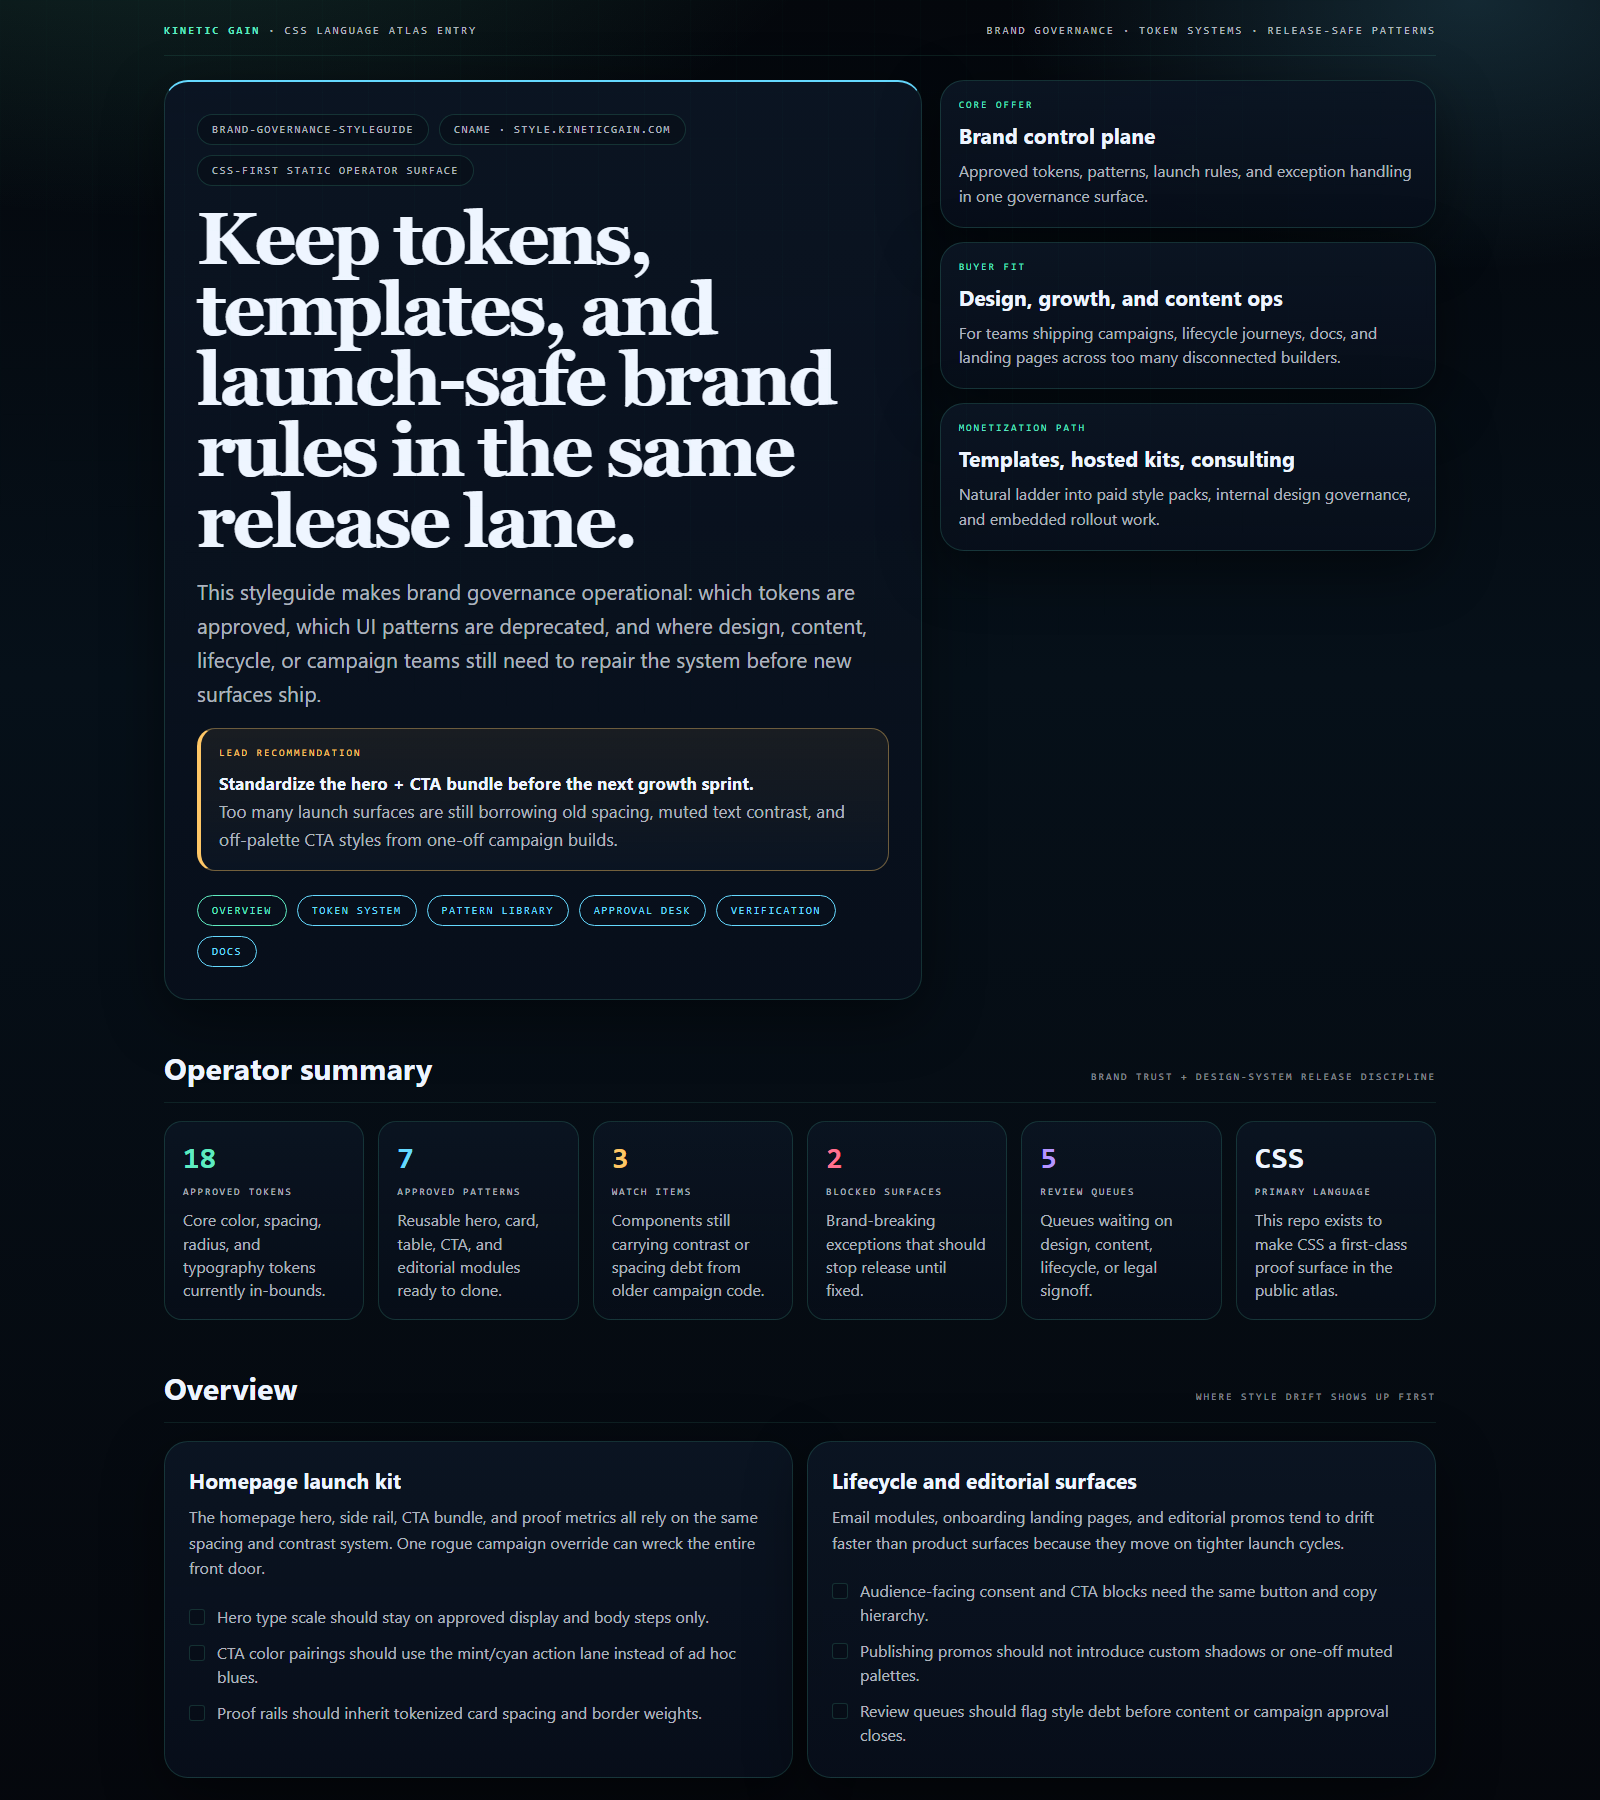
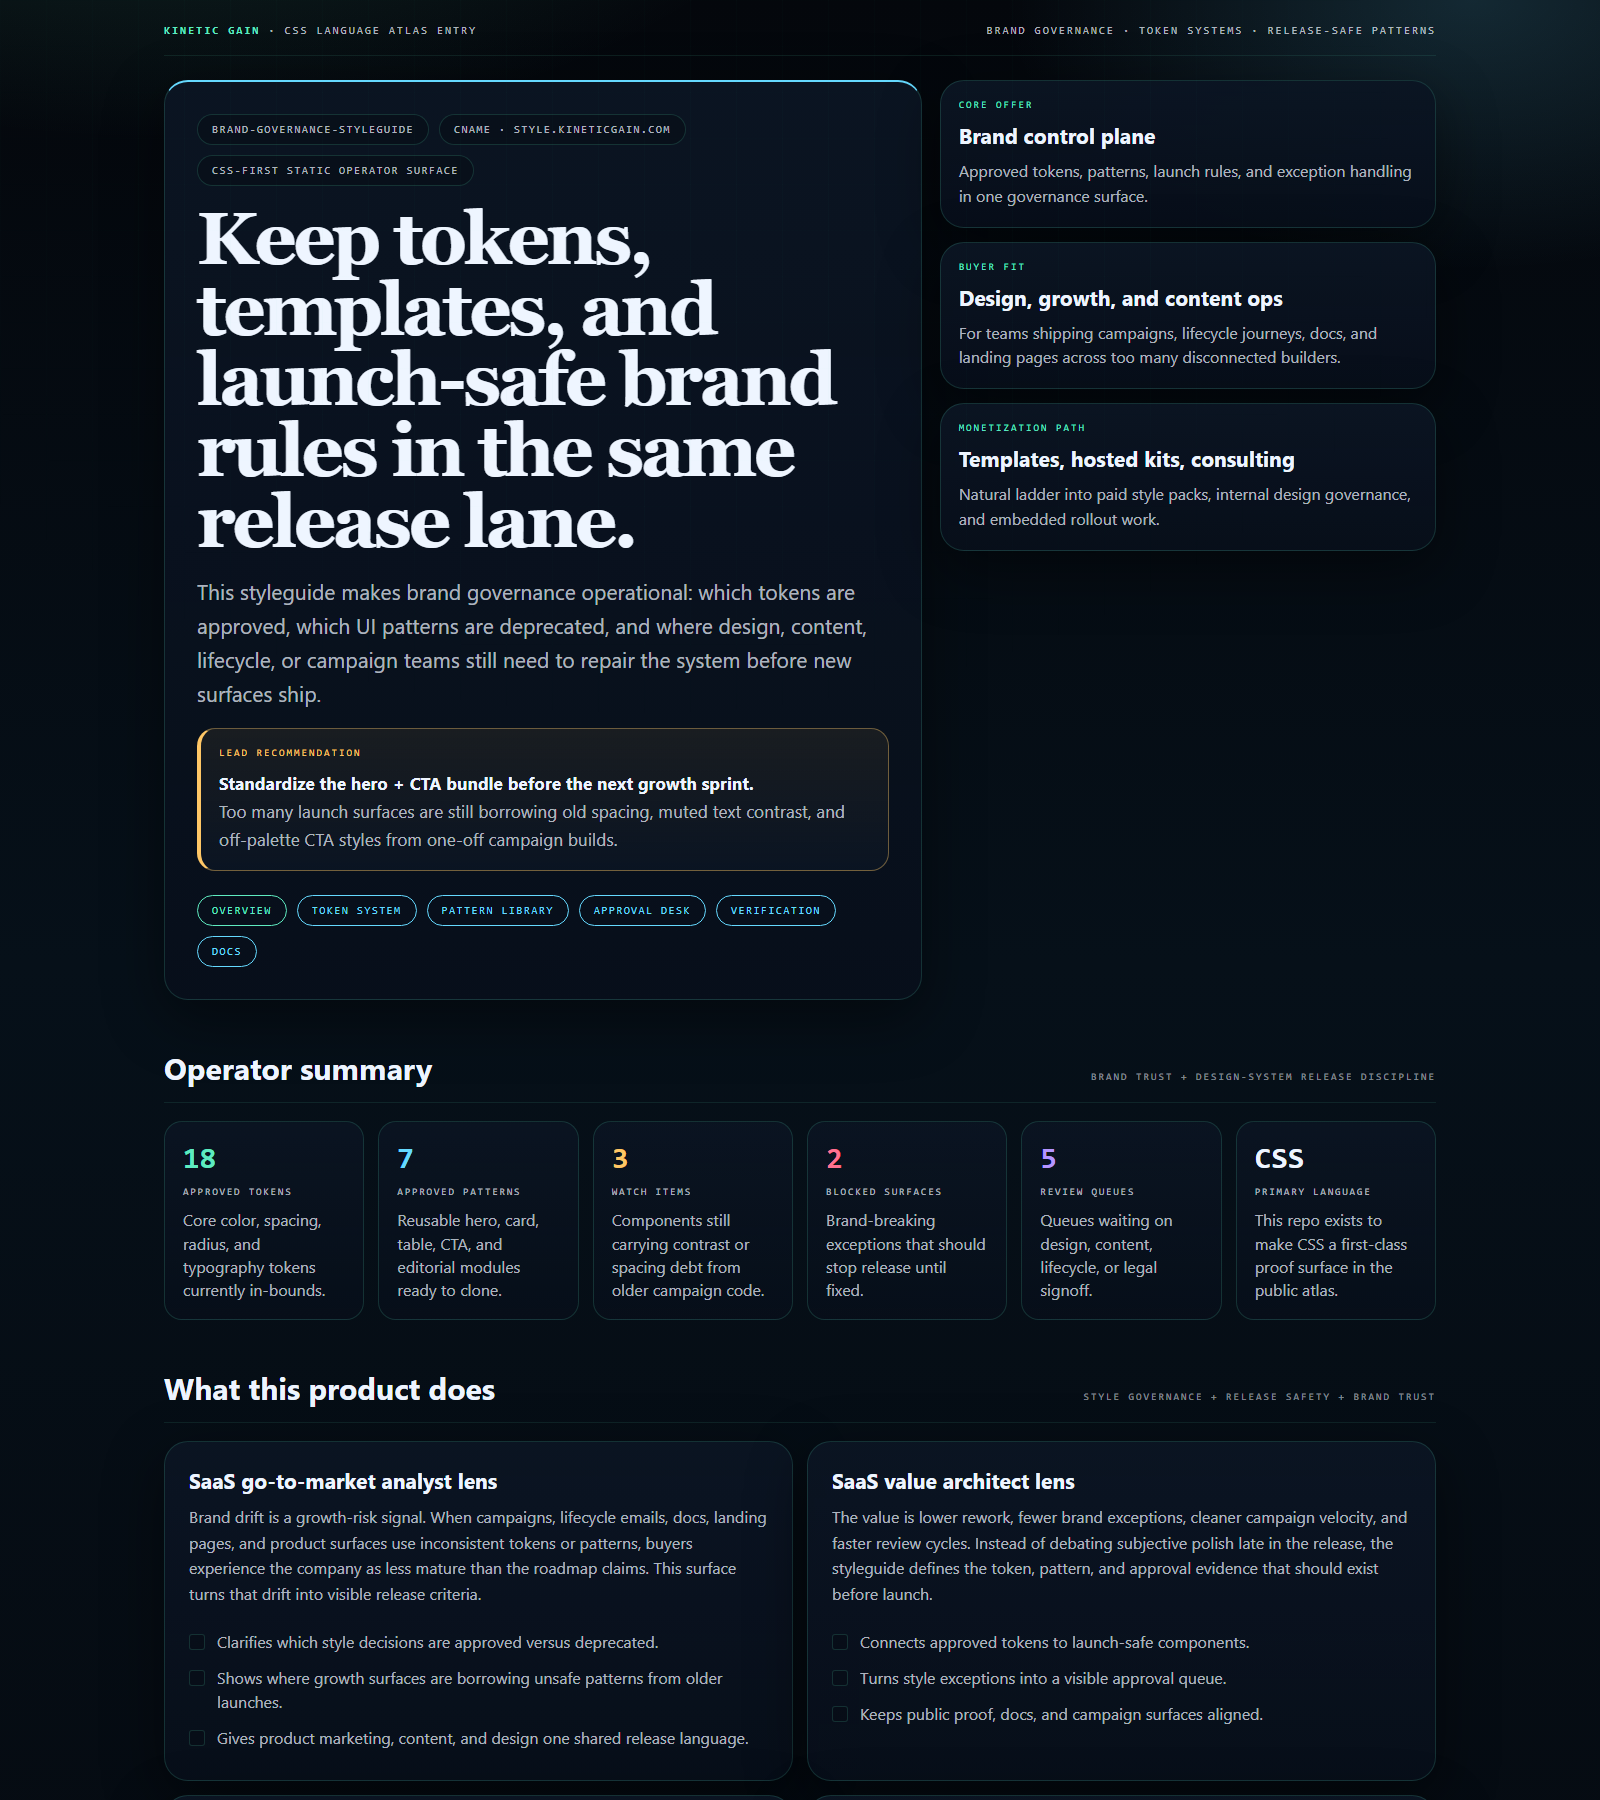
Deepen brand governance proof surface

Changed region(s): [[0.125, 0.8089, 0.875, 1.0], [0.5312, 0.8089, 0.875, 0.9644], [0.0938, 0.7467, 0.3125, 0.7778]]

diff --git a/src/index.html b/src/index.html
@@ -72,6 +72,51 @@
 
     <section class="section">
       <div class="section-head">
+        <h2>What this product does</h2>
+        <div class="note">style governance + release safety + brand trust</div>
+      </div>
+      <div class="grid-2">
+        <article class="section-card">
+          <h3>SaaS go-to-market analyst lens</h3>
+          <p>Brand drift is a growth-risk signal. When campaigns, lifecycle emails, docs, landing pages, and product surfaces use inconsistent tokens or patterns, buyers experience the company as less mature than the roadmap claims. This surface turns that drift into visible release criteria.</p>
+          <ul class="checklist">
+            <li>Clarifies which style decisions are approved versus deprecated.</li>
+            <li>Shows where growth surfaces are borrowing unsafe patterns from older launches.</li>
+            <li>Gives product marketing, content, and design one shared release language.</li>
+          </ul>
+        </article>
+        <article class="section-card">
+          <h3>SaaS value architect lens</h3>
+          <p>The value is lower rework, fewer brand exceptions, cleaner campaign velocity, and faster review cycles. Instead of debating subjective polish late in the release, the styleguide defines the token, pattern, and approval evidence that should exist before launch.</p>
+          <ul class="checklist">
+            <li>Connects approved tokens to launch-safe components.</li>
+            <li>Turns style exceptions into a visible approval queue.</li>
+            <li>Keeps public proof, docs, and campaign surfaces aligned.</li>
+          </ul>
+        </article>
+        <article class="section-card">
+          <h3>Technical proof</h3>
+          <p>The repo is intentionally CSS-first. The proof is not a screenshot gallery; it is a static governance surface that uses real token naming, component states, responsive rules, and release-blocking pattern categories that can be inspected directly in the source and generated site bundle.</p>
+          <ul class="checklist">
+            <li>Build output is deterministic from the source styleguide files.</li>
+            <li>Routes cover tokens, pattern library, approval desk, verification, and docs.</li>
+            <li>Smoke checks confirm required sections before the public surface ships.</li>
+          </ul>
+        </article>
+        <article class="section-card">
+          <h3>What these repos have in common</h3>
+          <p>This is the design-governance companion to the broader Kinetic Gain operating surfaces: every repo turns an ambiguous operational risk into named lanes, visible evidence, and a release-safe next action. Here, the risk is brand and UI drift rather than cloud cost, identity posture, or revenue leakage.</p>
+          <ul class="checklist">
+            <li>Buyer-readable summary first, implementation evidence second.</li>
+            <li>Clear owner lanes for design, growth, content, lifecycle, and legal review.</li>
+            <li>Reusable public proof that supports portfolio, SEO, and due-diligence review.</li>
+          </ul>
+        </article>
+      </div>
+    </section>
+
+    <section class="section">
+      <div class="section-head">
         <h2>Overview</h2>
         <div class="note">where style drift shows up first</div>
       </div>
@@ -104,4 +149,3 @@
   </div>
 </body>
 </html>
-

diff --git a/README.md b/README.md
@@ -12,6 +12,14 @@ CSS-first operator surface for brand governance: design tokens, component usage 
 
 This repo shows the design-system governance primitive for Kinetic Gain Embedded: approved tokens, publish-safe patterns, and rollout discipline exposed through one operator surface. In a real embedded setting, the same structure can power hosted brand kits, template packs, and consulting-led design governance.
 
+## What this product does
+
+Brand Governance Styleguide turns brand drift into a release-governance surface. It gives design, growth, content, lifecycle, and product teams one place to see which tokens are approved, which patterns are deprecated, which campaign surfaces are carrying style debt, and which exceptions should block release.
+
+For a SaaS go-to-market analyst, the product exposes a growth-risk signal that is usually hidden until late-stage review: inconsistent templates, off-palette CTAs, weak hierarchy, and campaign-specific overrides that make the company feel less mature to buyers. For a SaaS value architect, the value is lower rework, cleaner launch velocity, fewer subjective review loops, and more reusable template infrastructure.
+
+Technically, this repo is intentionally CSS-first. The proof is not a screenshot gallery; it is a static governance surface with source-visible tokens, component states, responsive rules, route coverage, and smoke checks. It shares the same Kinetic Gain pattern as the other operator surfaces: buyer-readable summary first, evidence and owner lanes second, then release-safe next actions.
+
 ## Routes
 
 - `/`
@@ -69,4 +77,3 @@ Open:
 ## Part of the Kinetic Gain Suite
 
 Operator surface in the [Kinetic Gain Suite](https://suite.kineticgain.com/) — a portfolio of buyer-readable control planes spanning compliance evidence, lifecycle governance, identity posture, FinOps, content systems, and operator workflows. Apex: [kineticgain.com](https://kineticgain.com/).
-